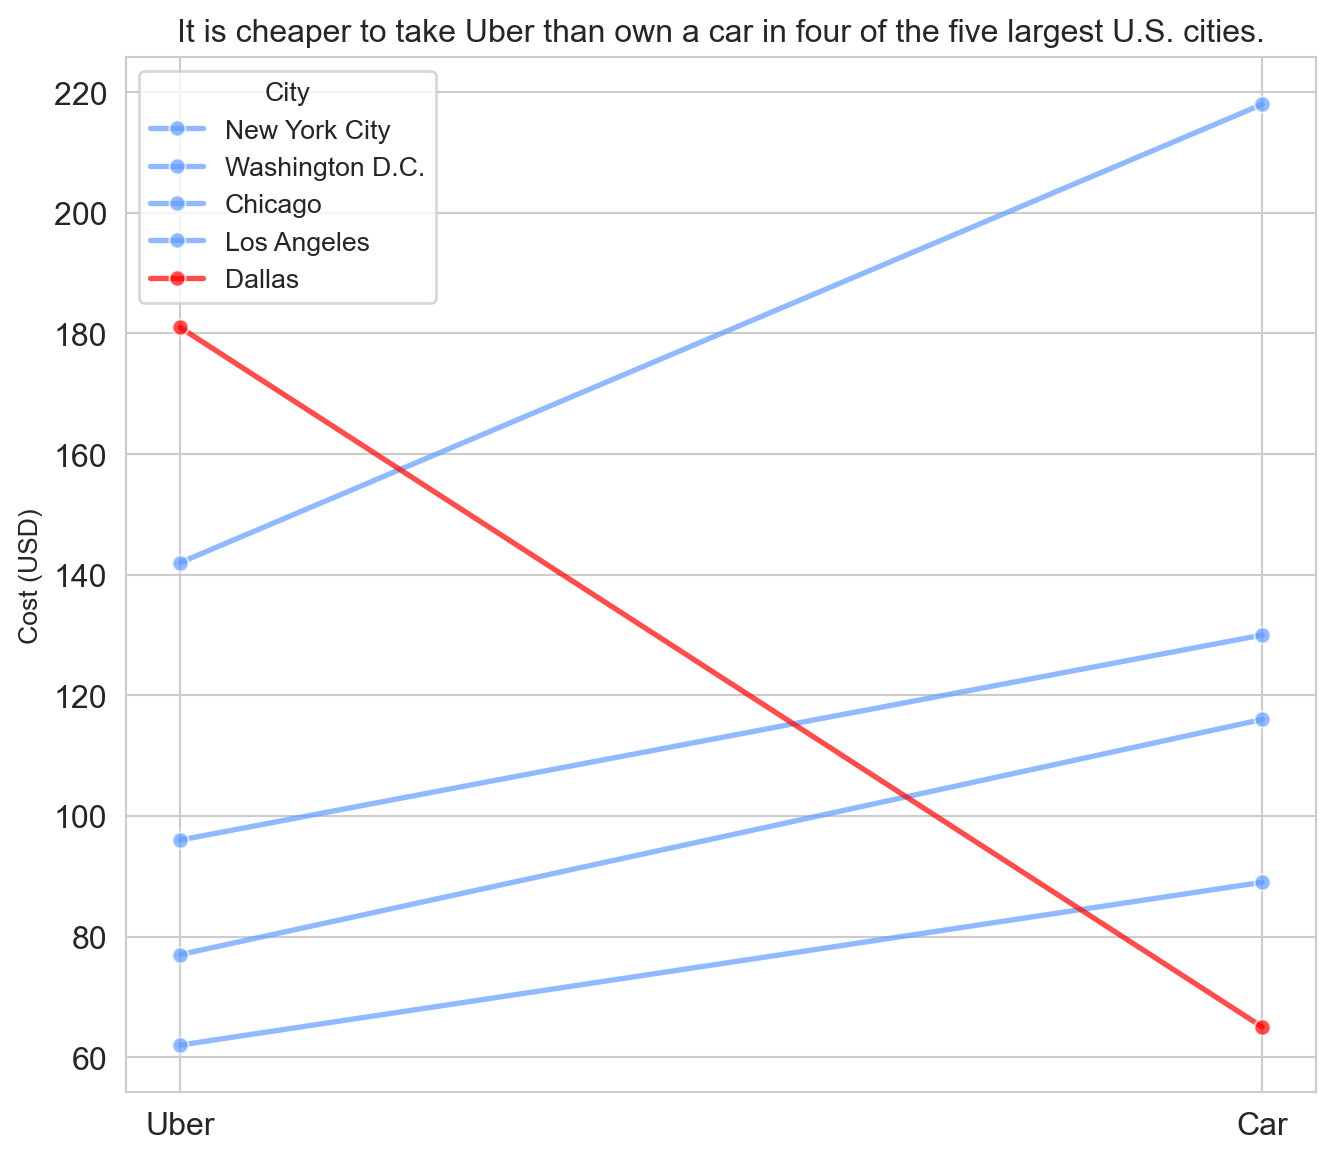
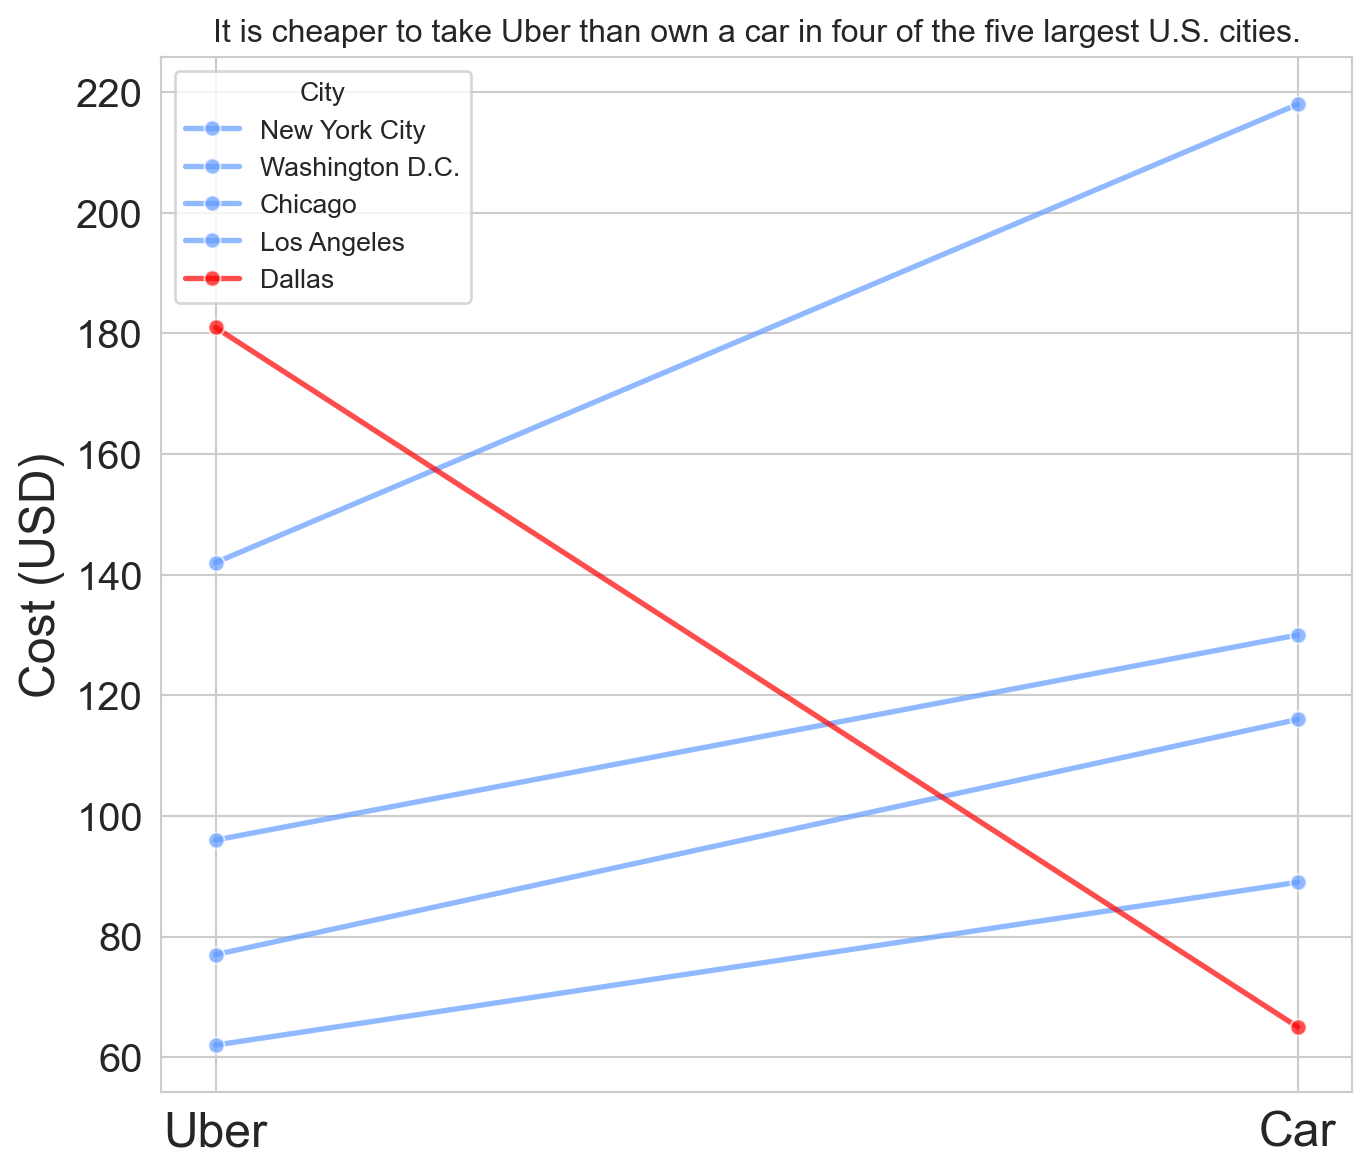
Revisit Introduction.qmd

diff --git a/T1_Introduction/Introduction.slides-speaker.html b/T1_Introduction/Introduction.slides-speaker.html
@@ -437,14 +437,6 @@ Alan R. Vazquez
 <div class="fragment">
 <p><span style="color:#023562;"><strong><em>In this course, we will assume that the data is in a table.</em></strong></span></p>
 </div>
-</section>
-<section id="problem-situation" class="slide level2">
-<h2>Problem Situation</h2>
-<p>TBD</p>
-</section>
-<section id="goal-of-the-problem-situation" class="slide level2">
-<h2>Goal of the problem situation</h2>
-<p>TBD</p>
 </section></section>
 <section>
 <section id="the-three-principles-of-data-science" class="title-slide slide level1 center">
@@ -483,7 +475,8 @@ Alan R. Vazquez
 <h2></h2>
 <p>At its core, data visualization allows you to delve into complex datasets to extract meaningful insights using graphical displays.</p>
 <p><br></p>
-<p>Data visualizations are primarily concerned with providing evidence and enabling the audience to explore and draw their own conclusions about what the visualizations reveal about the data. <br></p>
+<p>Data visualizations are primarily concerned with providing evidence and enabling the audience to explore and draw their own conclusions about what the visualizations reveal about the data.</p>
+<p><br></p>
 <div class="fragment">
 <p><span style="color:#023562;"><strong><em>Data visualization has 3 key principles…</em></strong></span></p>
 <aside class="notes">
@@ -648,11 +641,11 @@ Alan R. Vazquez
 <section id="section-4" class="slide level2">
 <h2></h2>
 <p><span style="color:#023562;"><strong>Principle 2</strong></span>: Turn data into information.</p>
-<div id="4fbb5ece" class="cell" data-fig-height="4" data-execution_count="1">
+<div id="4efe0c85" class="cell" data-fig-height="4" data-execution_count="1">
 <div class="cell-output cell-output-display">
-<div>
+<div class="quarto-figure quarto-figure-center">
 <figure>
-<p><img data-src="Introduction_files/figure-revealjs/cell-2-output-1.png" data-fig-pos="center" width="663" height="577"></p>
+<p><img data-src="Introduction_files/figure-revealjs/cell-2-output-1.png" class="quarto-figure quarto-figure-center" width="686" height="605"></p>
 </figure>
 </div>
 </div>
@@ -661,11 +654,11 @@ Alan R. Vazquez
 <section id="section-5" class="slide level2">
 <h2></h2>
 <p><span style="color:#023562;"><strong>Principle 3</strong></span>: Apply Graphic Design Principles.</p>
-<div id="771de763" class="cell" data-fig-height="4" data-execution_count="2">
+<div id="a128dc52" class="cell" data-fig-height="4" data-execution_count="2">
 <div class="cell-output cell-output-display">
-<div>
+<div class="quarto-figure quarto-figure-center">
 <figure>
-<p><img data-src="Introduction_files/figure-revealjs/cell-3-output-1.png" data-fig-pos="center" width="668" height="580"></p>
+<p><img data-src="Introduction_files/figure-revealjs/cell-3-output-1.png" class="quarto-figure quarto-figure-center" width="686" height="588"></p>
 </figure>
 </div>
 </div>

diff --git a/docs/T1_Introduction/Introduction.slides.html b/docs/T1_Introduction/Introduction.slides.html
@@ -437,14 +437,6 @@ Alan R. Vazquez
 <div class="fragment">
 <p><span style="color:#023562;"><strong><em>In this course, we will assume that the data is in a table.</em></strong></span></p>
 </div>
-</section>
-<section id="problem-situation" class="slide level2">
-<h2>Problem Situation</h2>
-<p>TBD</p>
-</section>
-<section id="goal-of-the-problem-situation" class="slide level2">
-<h2>Goal of the problem situation</h2>
-<p>TBD</p>
 </section></section>
 <section>
 <section id="the-three-principles-of-data-science" class="title-slide slide level1 center">
@@ -483,7 +475,8 @@ Alan R. Vazquez
 <h2></h2>
 <p>At its core, data visualization allows you to delve into complex datasets to extract meaningful insights using graphical displays.</p>
 <p><br></p>
-<p>Data visualizations are primarily concerned with providing evidence and enabling the audience to explore and draw their own conclusions about what the visualizations reveal about the data. <br></p>
+<p>Data visualizations are primarily concerned with providing evidence and enabling the audience to explore and draw their own conclusions about what the visualizations reveal about the data.</p>
+<p><br></p>
 <div class="fragment">
 <p><span style="color:#023562;"><strong><em>Data visualization has 3 key principles…</em></strong></span></p>
 <aside class="notes">
@@ -648,11 +641,11 @@ Alan R. Vazquez
 <section id="section-4" class="slide level2">
 <h2></h2>
 <p><span style="color:#023562;"><strong>Principle 2</strong></span>: Turn data into information.</p>
-<div id="4fbb5ece" class="cell" data-fig-height="4" data-execution_count="1">
+<div id="4efe0c85" class="cell" data-fig-height="4" data-execution_count="1">
 <div class="cell-output cell-output-display">
-<div>
+<div class="quarto-figure quarto-figure-center">
 <figure>
-<p><img data-src="Introduction_files/figure-revealjs/cell-2-output-1.png" data-fig-pos="center" width="663" height="577"></p>
+<p><img data-src="Introduction_files/figure-revealjs/cell-2-output-1.png" class="quarto-figure quarto-figure-center" width="686" height="605"></p>
 </figure>
 </div>
 </div>
@@ -661,11 +654,11 @@ Alan R. Vazquez
 <section id="section-5" class="slide level2">
 <h2></h2>
 <p><span style="color:#023562;"><strong>Principle 3</strong></span>: Apply Graphic Design Principles.</p>
-<div id="771de763" class="cell" data-fig-height="4" data-execution_count="2">
+<div id="a128dc52" class="cell" data-fig-height="4" data-execution_count="2">
 <div class="cell-output cell-output-display">
-<div>
+<div class="quarto-figure quarto-figure-center">
 <figure>
-<p><img data-src="Introduction_files/figure-revealjs/cell-3-output-1.png" data-fig-pos="center" width="668" height="580"></p>
+<p><img data-src="Introduction_files/figure-revealjs/cell-3-output-1.png" class="quarto-figure quarto-figure-center" width="686" height="588"></p>
 </figure>
 </div>
 </div>
